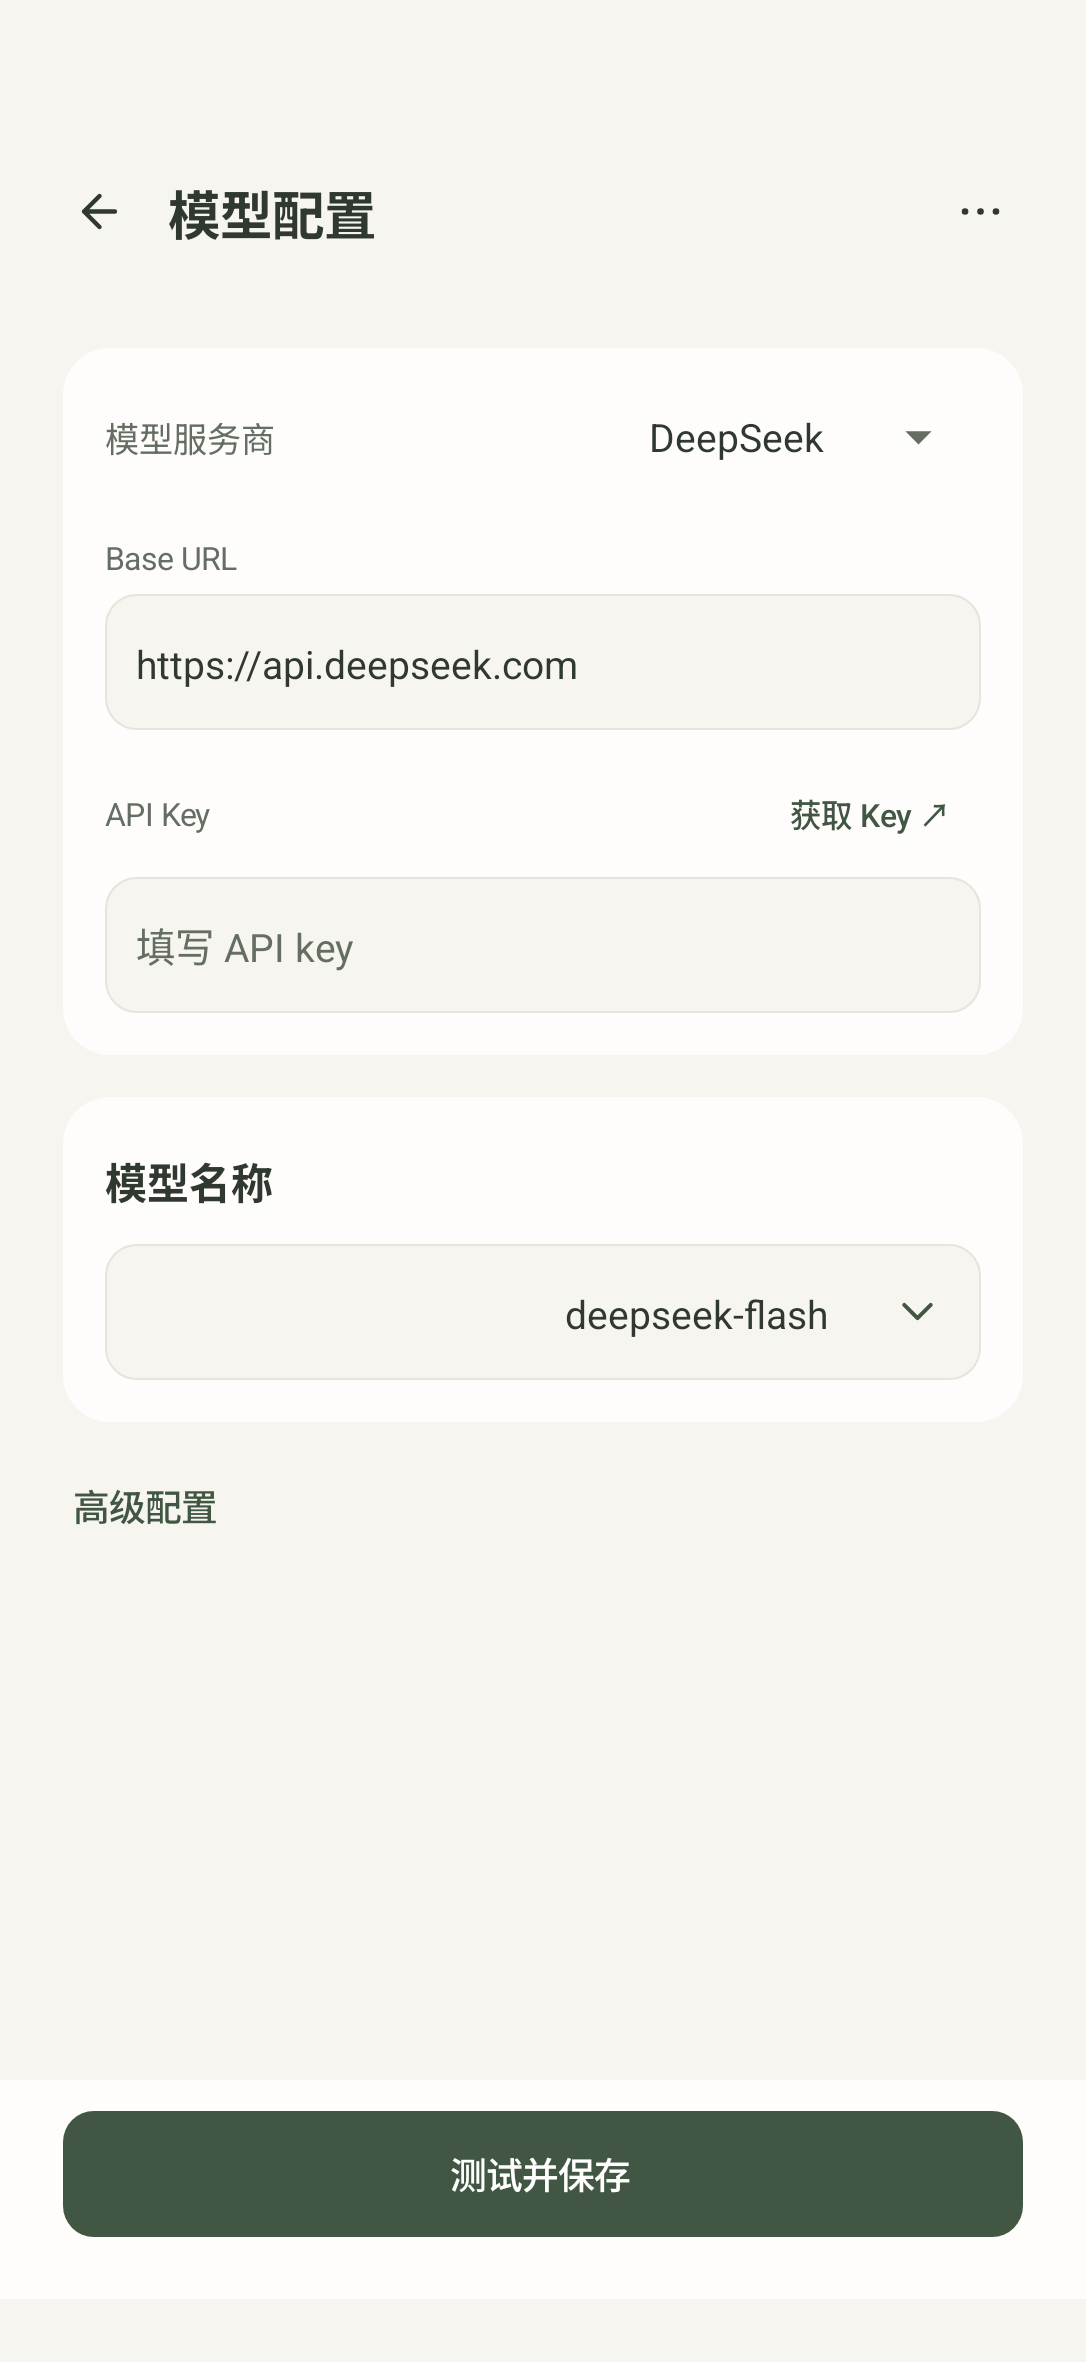
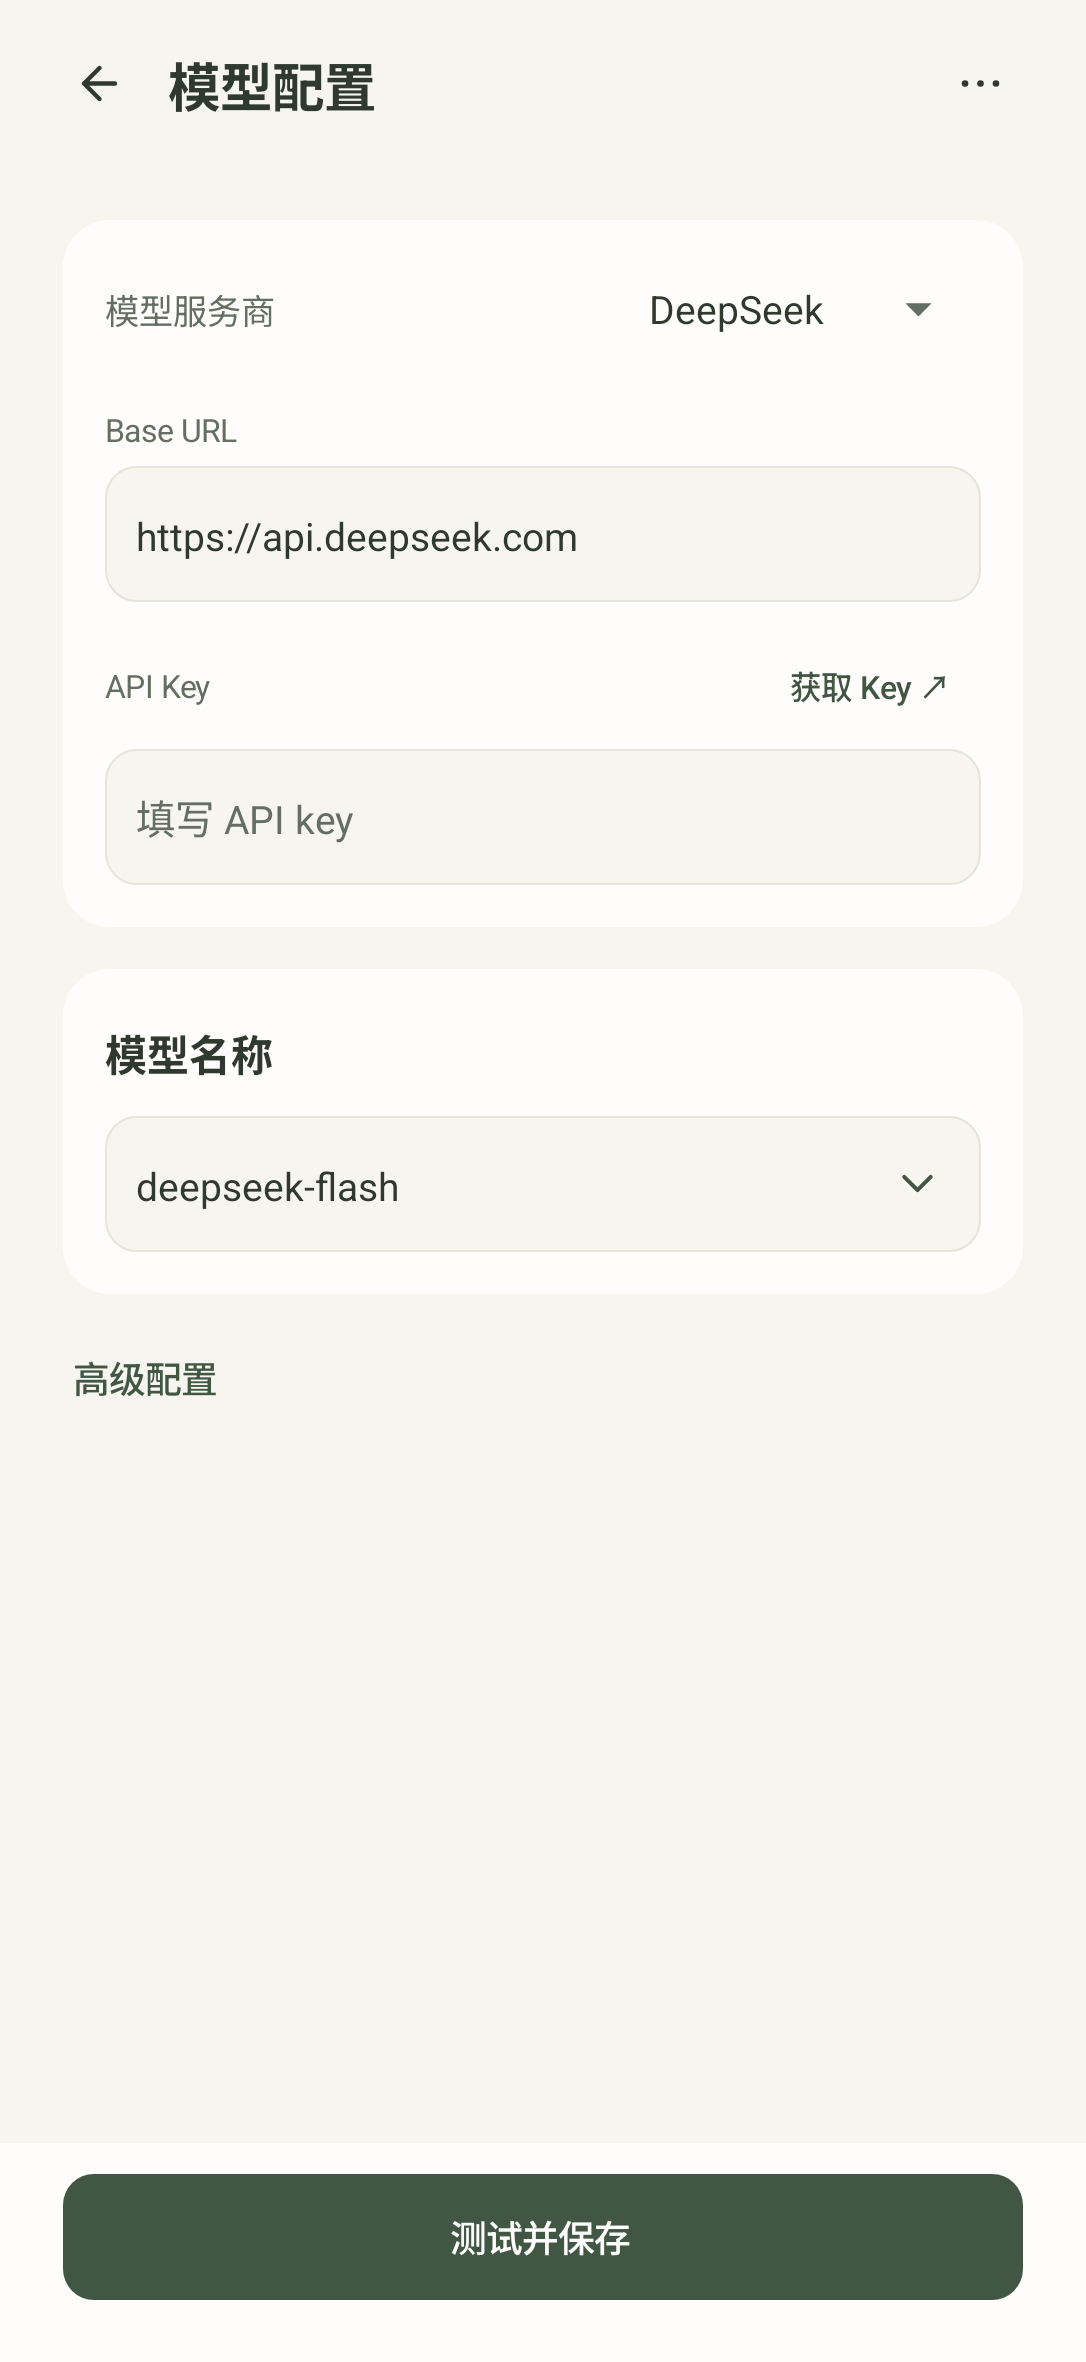
Keep page footers anchored underneath the keyboard

diff --git a/app/src/androidTest/java/com/wukong/phone/KeyboardFooterTest.kt b/app/src/androidTest/java/com/wukong/phone/KeyboardFooterTest.kt
@@ -1,0 +1,105 @@
+package com.wukong.phone
+
+import android.app.Activity
+import android.content.Intent
+import android.graphics.Rect
+import android.view.View
+import android.view.inputmethod.InputMethodManager
+import android.widget.EditText
+import androidx.core.view.ViewCompat
+import androidx.core.view.WindowInsetsCompat
+import androidx.test.ext.junit.runners.AndroidJUnit4
+import androidx.test.platform.app.InstrumentationRegistry
+import org.junit.Assert.*
+import org.junit.Assume.assumeTrue
+import org.junit.Test
+import org.junit.runner.RunWith
+import java.io.File
+
+/** Actual IME show/hide regression: never types into or saves the user's fields. */
+@RunWith(AndroidJUnit4::class)
+class KeyboardFooterTest {
+    private val i get() = InstrumentationRegistry.getInstrumentation()
+    private val context get() = i.targetContext
+    private fun await(condition: () -> Boolean) {
+        val deadline = System.currentTimeMillis() + 15000
+        var ready = false
+        while (!ready && System.currentTimeMillis() < deadline) {
+            i.runOnMainSync { ready = condition() }
+            if (!ready) Thread.sleep(100)
+        }
+        assertTrue("Keyboard/footer state did not arrive", ready)
+    }
+    private fun capture(name: String) {
+        if (InstrumentationRegistry.getArguments().getString("capture_keyboard") != "true") return
+        Thread.sleep(500)
+        val request = File(context.filesDir, "screen-review-request")
+        val done = File(context.filesDir, "screen-review-done")
+        done.delete(); request.writeText(name)
+        val deadline = System.currentTimeMillis() + 15000
+        while (!done.exists() && System.currentTimeMillis() < deadline) Thread.sleep(100)
+        assertTrue("Host must capture $name", done.exists()); request.delete()
+    }
+    private fun exercise(activity: Activity, fieldId: Int, footerId: Int, name: String) {
+        val field = activity.findViewById<EditText>(fieldId)
+        val footer = activity.findViewById<View>(footerId)
+        val root = activity.findViewById<View>(android.R.id.content)
+        val previous = field.text.toString()
+        i.runOnMainSync {
+            activity.window.addFlags(android.view.WindowManager.LayoutParams.FLAG_KEEP_SCREEN_ON)
+            activity.setTurnScreenOn(true)
+        }
+        await { footer.isLaidOut && footer.height > 0 }
+        val footerBefore = Rect()
+        i.runOnMainSync { footer.getGlobalVisibleRect(footerBefore) }
+        val ime = activity.getSystemService(InputMethodManager::class.java)
+        // A real touch returns physical-display focus from an existing virtual preview.
+        val target = Rect()
+        i.runOnMainSync { field.getGlobalVisibleRect(target) }
+        val now = android.os.SystemClock.uptimeMillis()
+        for (action in listOf(android.view.MotionEvent.ACTION_DOWN, android.view.MotionEvent.ACTION_UP)) {
+            val event = android.view.MotionEvent.obtain(now, android.os.SystemClock.uptimeMillis(), action, target.centerX().toFloat(), target.centerY().toFloat(), 0)
+            event.source = android.view.InputDevice.SOURCE_TOUCHSCREEN
+            i.sendPointerSync(event); event.recycle()
+        }
+        await { activity.hasWindowFocus() }
+        i.runOnMainSync { field.requestFocus(); ime.showSoftInput(field, InputMethodManager.SHOW_IMPLICIT) }
+        await { ViewCompat.getRootWindowInsets(root)?.isVisible(WindowInsetsCompat.Type.ime()) == true && footer.isShown }
+        i.waitForIdleSync()
+        i.runOnMainSync {
+            assertTrue(field.hasFocus())
+            val footerDuring = Rect(); footer.getGlobalVisibleRect(footerDuring)
+            assertEquals("Footer must stay anchored instead of moving above keyboard", footerBefore, footerDuring)
+            val visibleField = Rect(); val visibleWindow = Rect()
+            field.getWindowVisibleDisplayFrame(visibleWindow)
+            assertTrue("Focused field remains visible", field.getGlobalVisibleRect(visibleField))
+            val decor = activity.window.decorView
+            val position = IntArray(2); decor.getLocationOnScreen(position)
+            val imeHeight = ViewCompat.getRootWindowInsets(root)!!.getInsets(WindowInsetsCompat.Type.ime()).bottom
+            assertTrue("Visible input stays above keyboard", visibleField.bottom <= position[1] + decor.height - imeHeight + 2)
+            assertEquals(previous, field.text.toString())
+        }
+        capture("$name-keyboard")
+        i.runOnMainSync { ime.hideSoftInputFromWindow(field.windowToken, 0) }
+        await { ViewCompat.getRootWindowInsets(root)?.isVisible(WindowInsetsCompat.Type.ime()) == false && footer.isShown }
+        capture("$name-keyboard-closed")
+        i.runOnMainSync { assertEquals(previous, field.text.toString()) }
+    }
+    @Test fun bottomNavigationAndModelSaveFooterStayAnchoredUnderTheKeyboard() {
+        assumeTrue(!TaskRuntime.active)
+        val draft = TaskDraftStore(context); val beforeGoal = draft.goal(); val beforePackage = draft.packageName()
+        val beforeModel = SettingsStore(context).load()?.toJson()?.toString()
+        var a: Activity? = null
+        try {
+            a = i.startActivitySync(Intent(context, MainActivity::class.java).addFlags(Intent.FLAG_ACTIVITY_NEW_TASK), android.app.ActivityOptions.makeBasic().setLaunchDisplayId(0).toBundle())
+            exercise(a, R.id.task_goal, R.id.main_navigation, "tasks")
+            i.runOnMainSync { a!!.finish() }; i.waitForIdleSync()
+            a = i.startActivitySync(Intent(context, SetupActivity::class.java).putExtra("model_only", true).addFlags(Intent.FLAG_ACTIVITY_NEW_TASK), android.app.ActivityOptions.makeBasic().setLaunchDisplayId(0).toBundle())
+            exercise(a, R.id.model_name, R.id.setup_actions, "model")
+            assertTrue("IME changes must preserve saved configuration", beforeModel == SettingsStore(context).load()?.toJson()?.toString())
+            assertEquals(beforeGoal, draft.goal()); assertEquals(beforePackage, draft.packageName())
+        } finally {
+            i.runOnMainSync { a?.finish() }
+        }
+    }
+}

diff --git a/app/src/main/java/com/wukong/phone/MainActivity.kt b/app/src/main/java/com/wukong/phone/MainActivity.kt
@@ -14,7 +14,6 @@ import android.text.Editable
 import android.text.TextWatcher
 import android.view.Gravity
 import android.view.View
-import android.view.WindowInsets
 import android.widget.*
 import com.wukong.core.Phase
 import org.json.JSONObject
@@ -65,16 +64,6 @@ class MainActivity : LocalizedActivity() {
         taskOptionsOpen = savedInstanceState?.getBoolean("task_options", false) ?: false
         selectedPackage = savedInstanceState?.getString("package") ?: TaskDraftStore(this).packageName()
         root = column().apply { setBackgroundColor(color(R.color.paper)) }
-        root.setOnApplyWindowInsetsListener { view, insets ->
-            if (android.os.Build.VERSION.SDK_INT >= 30) {
-                val bars = insets.getInsets(WindowInsets.Type.systemBars() or WindowInsets.Type.ime())
-                view.setPadding(bars.left, bars.top, bars.right, bars.bottom)
-            } else {
-                @Suppress("DEPRECATION")
-                view.setPadding(insets.systemWindowInsetLeft, insets.systemWindowInsetTop, insets.systemWindowInsetRight, insets.systemWindowInsetBottom)
-            }
-            insets
-        }
         appHeader = row()
         showBrandHeader()
         root.addView(appHeader)
@@ -86,8 +75,9 @@ class MainActivity : LocalizedActivity() {
         }.apply { orientation = LinearLayout.VERTICAL; setPadding(dp(24), dp(16), dp(24), dp(32)) }
         pageScroll.addView(body, FrameLayout.LayoutParams(-1, -2, Gravity.CENTER_HORIZONTAL))
         root.addView(pageScroll, LinearLayout.LayoutParams(-1, 0, 1f))
-        root.addView(View(this).apply { setBackgroundColor(color(R.color.line)) }, LinearLayout.LayoutParams(-1, dp(1)))
-        val navigation = row().apply { setPadding(dp(12), dp(4), dp(12), dp(4)); setBackgroundColor(color(R.color.surface)) }
+        val navigationDivider = View(this).apply { setBackgroundColor(color(R.color.line)) }
+        root.addView(navigationDivider, LinearLayout.LayoutParams(-1, dp(1)))
+        val navigation = row().apply { id = R.id.main_navigation; setPadding(dp(12), dp(4), dp(12), dp(4)); setBackgroundColor(color(R.color.surface)) }
         listOf(Triple(0, R.string.ui_tasks, R.drawable.ic_nav_tasks), Triple(1, R.string.ui_history, R.drawable.ic_nav_history),
             Triple(2, R.string.ui_settings, R.drawable.ic_nav_settings)).forEach { (index, label, icon) ->
             val item = button(getString(label), primary = false) { navigate(index) }.apply {
@@ -99,6 +89,7 @@ class MainActivity : LocalizedActivity() {
             navigation.addView(item, LinearLayout.LayoutParams(0, -2, 1f))
         }
         root.addView(navigation)
+        PageInsets.bind(root, pageScroll, navigation)
         setContentView(root)
         if (android.os.Build.VERSION.SDK_INT >= 33) onBackInvokedDispatcher.registerOnBackInvokedCallback(0) { detailBack?.invoke() ?: finish() }
         TaskRuntime.listen(listener)

diff --git a/app/src/main/java/com/wukong/phone/PageInsets.kt b/app/src/main/java/com/wukong/phone/PageInsets.kt
@@ -1,0 +1,34 @@
+package com.wukong.phone
+
+import android.graphics.Rect
+import android.view.View
+import androidx.core.view.ViewCompat
+import androidx.core.view.WindowInsetsCompat
+
+/** Footers stay at the physical bottom; only scrollable content avoids the IME overlay. */
+internal object PageInsets {
+    fun bind(root: View, content: View, footer: View) {
+        val originalBottom = content.paddingBottom
+        ViewCompat.setOnApplyWindowInsetsListener(root) { view, insets ->
+            val bars = insets.getInsetsIgnoringVisibility(WindowInsetsCompat.Type.systemBars())
+            view.setPadding(bars.left, bars.top, bars.right, bars.bottom)
+            val covered = (insets.getInsets(WindowInsetsCompat.Type.ime()).bottom - bars.bottom - footer.height).coerceAtLeast(0)
+            val bottom = originalBottom + covered
+            val bringInputIntoView = bottom > content.paddingBottom
+            if (bottom != content.paddingBottom) {
+                content.setPadding(content.paddingLeft, content.paddingTop, content.paddingRight, bottom)
+                if (bringInputIntoView) content.post {
+                    content.findFocus()?.let { focused ->
+                        val cursor = Rect(); focused.getFocusedRect(cursor)
+                        focused.requestRectangleOnScreen(cursor, false)
+                    }
+                }
+            }
+            insets
+        }
+        footer.addOnLayoutChangeListener { _, left, top, right, bottom, oldLeft, oldTop, oldRight, oldBottom ->
+            if (right - left != oldRight - oldLeft || bottom - top != oldBottom - oldTop) ViewCompat.requestApplyInsets(root)
+        }
+        ViewCompat.requestApplyInsets(root)
+    }
+}

diff --git a/app/src/main/java/com/wukong/phone/SetupActivity.kt b/app/src/main/java/com/wukong/phone/SetupActivity.kt
@@ -4,7 +4,6 @@ import android.content.Intent
 import android.os.Bundle
 import android.provider.Settings
 import android.view.View
-import android.view.WindowInsets
 import android.widget.*
 import org.json.JSONObject
 import java.util.concurrent.Executors
@@ -48,17 +47,12 @@ class SetupActivity : LocalizedActivity() {
         val scroll = ScrollView(this).apply { addView(body); isFillViewport = true }
         root.addView(scroll, LinearLayout.LayoutParams(-1, 0, 1f))
         actionBar = ui.column().apply {
+            id = R.id.setup_actions
             setPadding(ui.dp(24), ui.dp(12), ui.dp(24), ui.dp(12))
             background = WukongUi.shape(this@SetupActivity, R.color.surface, 0)
         }
         root.addView(actionBar)
-        root.setOnApplyWindowInsetsListener { v, insets ->
-            if (android.os.Build.VERSION.SDK_INT >= 30) {
-                val bars = insets.getInsets(WindowInsets.Type.systemBars() or WindowInsets.Type.ime())
-                v.setPadding(bars.left, bars.top, bars.right, bars.bottom)
-            }
-            insets
-        }
+        PageInsets.bind(root, scroll, actionBar)
         setContentView(root)
         WirelessActivation.listen(changed)
         discovery = WirelessDiscovery(this) { pairing, port ->

diff --git a/docs/task-flow-validation.md b/docs/task-flow-validation.md
@@ -54,3 +54,9 @@ Model configuration now has a fixed compact header, a connection card (provider,
 Discovery explicitly requests GET on the configured prefix plus /models, with Bearer authentication and redirects disabled. Standard complete chat URLs use the sibling models route; unknown custom complete URLs retain manual entry. Responses are capped at 2 MiB / 2,000 models, parsed as data[].id, deduplicated, and sorted. Changing provider, key, endpoint or exact-URL mode cancels and invalidates an older request. Leaving the page cancels discovery. Empty, malformed, unauthorized, unavailable and network responses leave the entered model available. Model selection and refresh do not save a configuration.
 
 Validation includes 27 JVM tests; 12 physical Pixel 6 regression tests covering real DeepSeek model listing, the editable dropdown, prefix handling, HTTP/auth/redirect failures, empty and oversized responses, stale-response rejection, manual entry, clearing cancellation, onboarding, exports, model test/save and bilingual width previews. Selecting an actual dropdown row was also checked through its native list click handler. A 57-screen review covers both languages of the actual model list, clear confirmation and advanced form alongside the existing pages. Final popup-only styling uses the same 6 dp elevation as the other dropdowns. Release signing, ZIP alignment and all six arm64 library 16 KB checks passed.
+
+## Keyboard and fixed footers
+
+Main and setup windows use adjustNothing. Footers keep their original position and remain visible in the view hierarchy while the IME naturally covers them. System-bar padding stays stable; only the scroll region gains the covered-area inset and brings the focused cursor into view. No keyboard-dependent footer visibility changes are used.
+
+A physical Pixel 6 test exercised the real keyboard on the task field and model input, asserted identical footer bounds before and during text entry, checked that the focused input remains above the keyboard, and preserved draft/model values. Four actual screenshots cover both open and closed states under .tooling/keyboard-review/. Debug/release builds and lint passed. Localized width previews refreshed the public model screenshots, including leading-aligned selected model IDs.

diff --git a/design.md b/design.md
@@ -39,7 +39,7 @@ System sans-serif: regular body, medium buttons, bold headings, upright througho
 
 ## Interaction
 
-Native ripple feedback and immediate focus indication. No decorative motion; no custom animation dependent on motion preferences. Disabled actions have native disabled state plus distinct text and fill. Task phases, failure, manual takeover, and approval are expressed in text as well as color. The stop action appears during a task. Sensitive approval semantics remain unchanged.
+Page footers stay fixed at the viewport bottom and are naturally covered by the keyboard. Only the scrollable form avoids the keyboard; footer visibility stays unchanged. Native ripple feedback and immediate focus indication. No decorative motion; no custom animation dependent on motion preferences. Disabled actions have native disabled state plus distinct text and fill. Task phases, failure, manual takeover, and approval are expressed in text as well as color. The stop action appears during a task. Sensitive approval semantics remain unchanged.
 
 ## Language and voice
 
